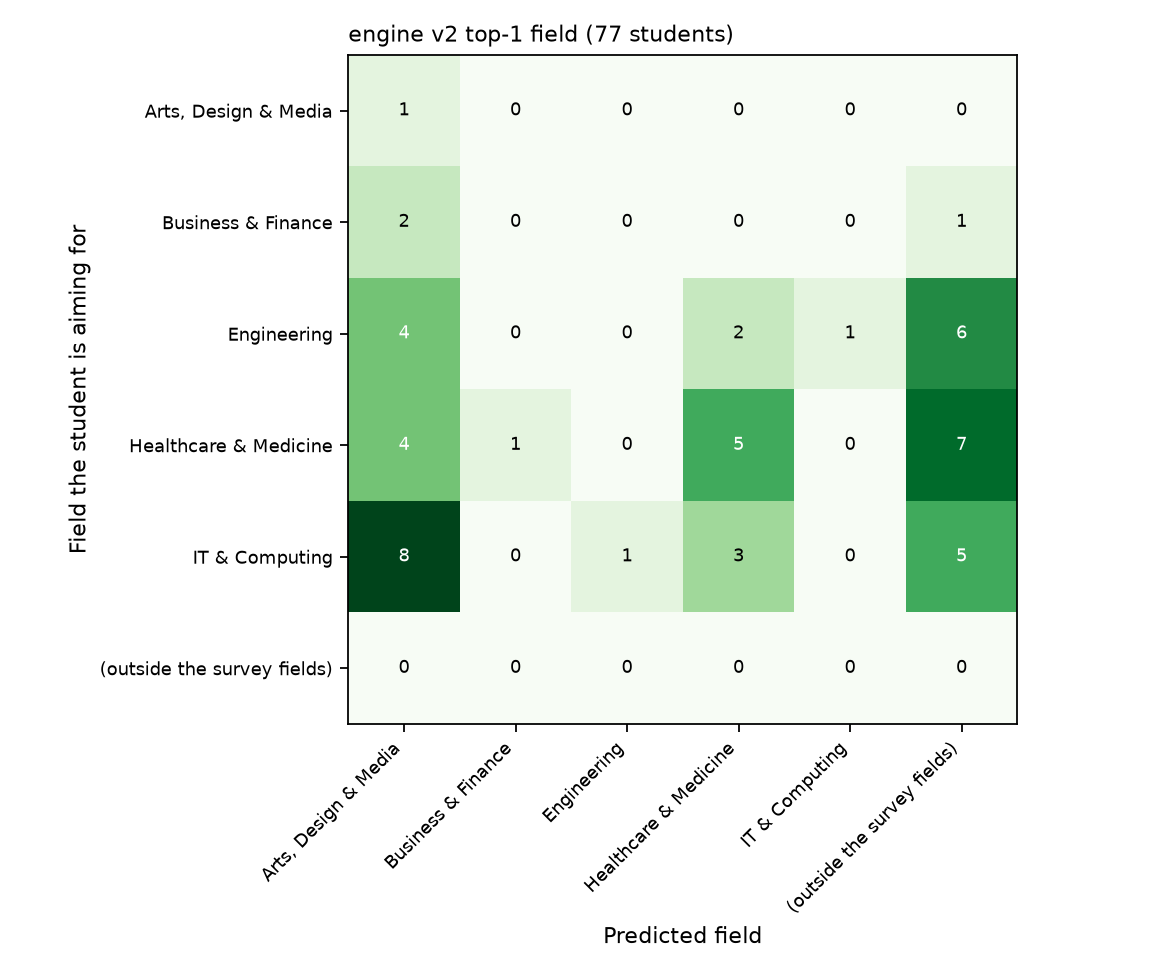
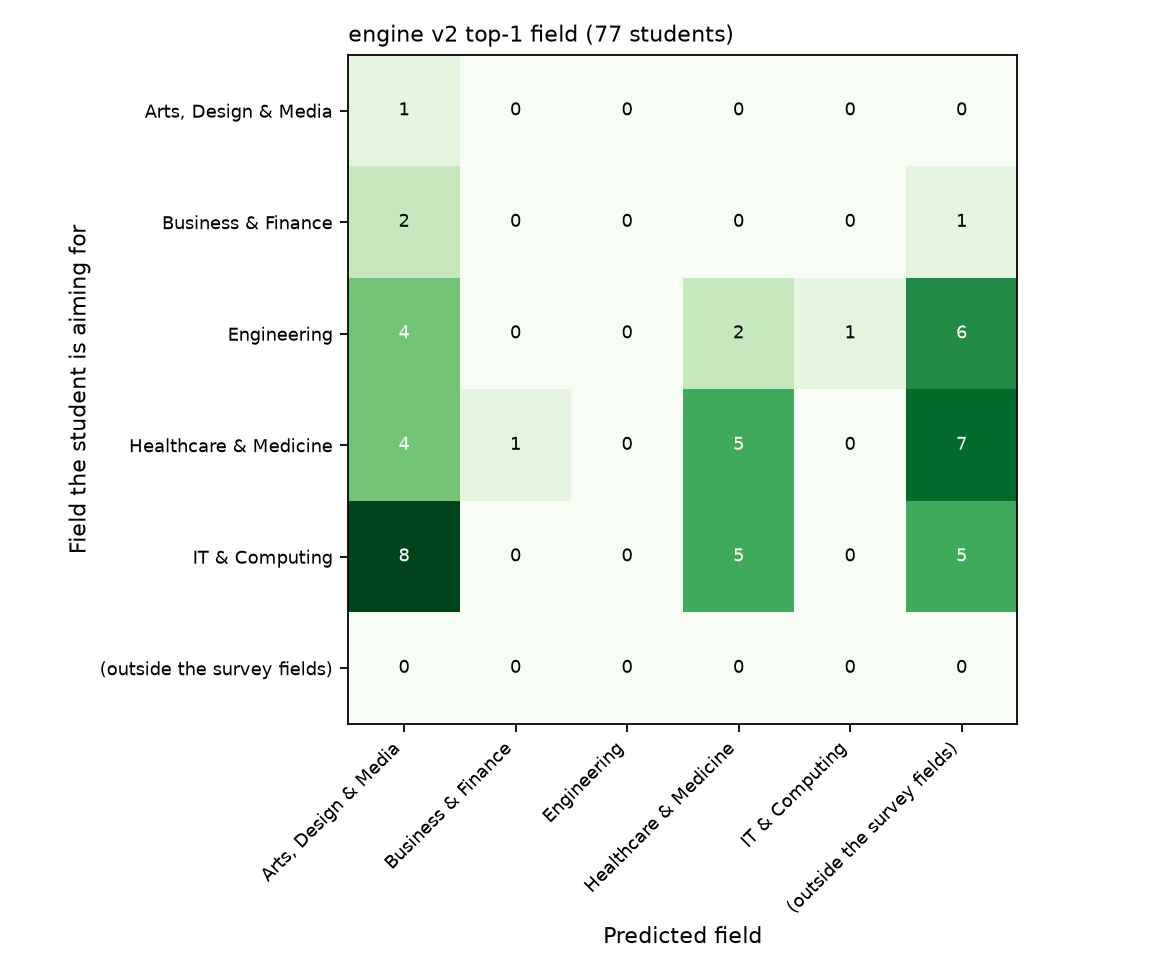
Add XGBoost to the ML comparison; explain engine v2's tie-dependent macro-F1
XGBoost (no class balancing): 56.6% accuracy / 0.374 macro-F1, below Logistic Regression.
Engine v2 has exact top-1 ties for 7 of 77 students, so its macro-F1 differs slightly between PCs
(0.083 vs 0.079, same accuracy); engine v3 and all other numbers are unchanged.

Changed region(s): [[0.5938, 0.4918, 0.6875, 0.6455]]

diff --git a/CLAUDE.md b/CLAUDE.md
@@ -43,7 +43,7 @@ give Windows PowerShell commands, and say how to run and verify it.
 | Quiz v2 + personalisation (`ml/preferences.py`, `config/areas.csv`, `config/course_areas.csv`): pick up to 3 areas, course, 3 strongest / 2 weakest skills (feed the strength fit only), work setting (O*NET Work Context) and further study (Job Zone <= 4) filters, results grouped "your areas" (7) + "also worth a look" (3), "Not for me" (`career_feedback` table, migration 004), idea chips for the text box | DONE (21 Oct). Product feature, NOT part of the Hit@k evaluation (asking the area would make it circular). Nothing tuned on the survey |
 | User test: 1-5 "would you consider it?" on each match (`career_rating`, migration 005), `experiments/user_test.py`, `docs/user_test_protocol.md` | Code DONE (21 Oct); test with 5-10 students NOT run yet |
 | `SHOW_UNVERIFIED_ROUTES` (.env): "no" hides education routes not checked on official sites; a route is verified only if every row is | DONE; all 73 rows still verified=no |
-| `ml_compare.py` (87 responses: 77 students in 5 fields, 3-fold CV x5 because Arts has 3 students): logreg 60.5% acc / 0.527 macro-F1, SVM 58.4% / 0.412, forest 57.7% / 0.383, majority 35.1% / 0.104; engine v3 14.3% / 0.199, v2 7.8% / 0.083 | DONE (26 Oct) |
+| `ml_compare.py` (87 responses: 77 students in 5 fields, 3-fold CV x5 because Arts has 3 students): logreg 60.5% acc / 0.527 macro-F1, SVM 58.4% / 0.412, forest 57.7% / 0.383, majority 35.1% / 0.104; engine v3 14.3% / 0.199, v2 7.8% / 0.079 (0.083 on tanisha's PC: v2 has exact top-1 ties for 7 students, tie order differs by PC); XGBoost (29 Oct, no class balancing) 56.6% / 0.374 | DONE (26 Oct; XGBoost 29 Oct) |
 | Survey study (`experiments/survey_insights.py` -> `insights.md`, 87 responses): interests barely differ by aimed field (eta^2 0.01-0.04); Programming 0.52, Computer Science 0.41, Biology 0.28; 48 aim at their branch's field; 4.6% flat skill answers; 47.9% of answers are 4-5 | DONE (26 Oct) |
 | Hybrid (`experiments/hybrid.py`): logreg predicts the field (cross-validated), engine v3 hand weights fills the top 3 from it, rest normal. Held-out Hit@1/3/5 on 81 students: answers only 57.0%/57.0%/66.2%; answers + branch 66.4%/66.4%/71.4%; v3 alone 14.8%/29.6%/35.8%; random 9.0%/24.1%/36.2%. N_FROM_FIELD=3 fixed before the run | DONE (26 Oct) |
 | Feature sets (`experiments/model_features.py`, same folds, 77 students): answers22 60.5% acc / 0.527 F1; +branch 69.6% / 0.636; skills+subjects 58.7% / 0.464; branch only 53.0% / 0.391. Rule fixed in advance: switch only if better on both -> +branch | DONE (26 Oct) |

diff --git a/docs/demo_and_viva.md b/docs/demo_and_viva.md
@@ -43,7 +43,7 @@ If something fails: stay calm and say what it would show. You can also open `/do
 | Careers | O*NET 31.0: 910 rankable, 903 after the India rules |
 | Hit@1 / Hit@5 (81 students) | Hybrid (answers + branch) **66.4% / 71.4%**; answers only 57.0% / 66.2%; engine v3 14.8% / 35.8%; random 9.0% / 36.2% |
 | Field model (77 students, 5 fields) | Logistic Regression 60.5% accuracy, macro-F1 0.527; with branch 69.6% / 0.636; majority guess 35.1% |
-| Other models | SVM 58.4% / 0.412; Random Forest 57.7% / 0.383 |
+| Other models | SVM 58.4% / 0.412; Random Forest 57.7% / 0.383; XGBoost 56.6% / 0.374 |
 | Survey study | Interests barely differ between fields (eta squared 0.01-0.04); Programming 0.52, Computer Science 0.41 |
 | All 139 responses | 10 fields instead of 5, so lower: hybrid + branch 48.6% / 55.5%, random 8.4% / 34.4% |
 | Tests | 139 automated tests pass |
@@ -65,8 +65,8 @@ It is agreement with a student's own plan, not proof of the right career. Random
 students from one college, a careful honest number matters more than a high one.
 
 **"Why not deep learning or XGBoost?"**
-With 87 students, a large model would overfit. We compared Logistic Regression, Random Forest and SVM with
-cross-validation, and the simplest one was best.
+With 87 students, a large model would overfit. We compared Logistic Regression, Random Forest, SVM and
+XGBoost with cross-validation, and the simplest one was best (XGBoost: 56.6% / 0.374 vs 60.5% / 0.527).
 
 **"Did you tune on your test data?"**
 No. The weights, the 3 places for the predicted field and the field map were fixed before we saw results.

diff --git a/docs/results/survey/README.md b/docs/results/survey/README.md
@@ -45,6 +45,12 @@ engine and random. The app's field model trains on all responses (more fields it
 
 ## Limitations to write in the report
 
+- XGBoost (`ml_compare.csv`, run 29 Oct once the package was installed): 56.6% accuracy / 0.374 macro-F1. Unlike the
+  other three models it ran WITHOUT class balancing (XGBClassifier has no class_weight option), which hurts small fields.
+- Engine v2 gives exactly equal top scores to two careers for 7 of the 77 students (5 in different fields). Which one
+  comes first depends on how the computer sorts ties, so v2's macro-F1 can differ slightly between PCs
+  (0.083 on one, 0.079 on another; accuracy 7.8% on both). Engine v3 and all other numbers are unaffected.
+
 - Q8 is the field a 1st-3rd year student is **aiming for**, not a proven fit or a later job. Agreement with it
   is a sanity check, not "accuracy".
 - Small sample from one college; fields with few students give unstable numbers (see the confidence intervals).

diff --git a/docs/report/results_tables.md b/docs/report/results_tables.md
@@ -38,7 +38,8 @@ Generated by `experiments/report_tables.py` from the files in `docs/results/` - 
 | Logistic Regression | 60.5% ± 1.9 | 0.527 ± 0.046 |
 | Random Forest | 57.7% ± 3.0 | 0.383 ± 0.028 |
 | SVM (RBF) | 58.4% ± 1.2 | 0.412 ± 0.050 |
-| Engine v2 top-1 field (not trained) | 7.8% | 0.083 |
+| XGBoost | 56.6% ± 4.8 | 0.374 ± 0.039 |
+| Engine v2 top-1 field (not trained) | 7.8% | 0.079 |
 | Engine v3 top-1 field (not trained) | 14.3% | 0.199 |
 
 *Repeated stratified 3-fold cross-validation (mean ± std over 5 repeats); 77 students in 5 fields; fields with fewer than 3 students left out. The models choose between these fields only; the engine ranks ~900 careers, so this comparison favours the models.*
